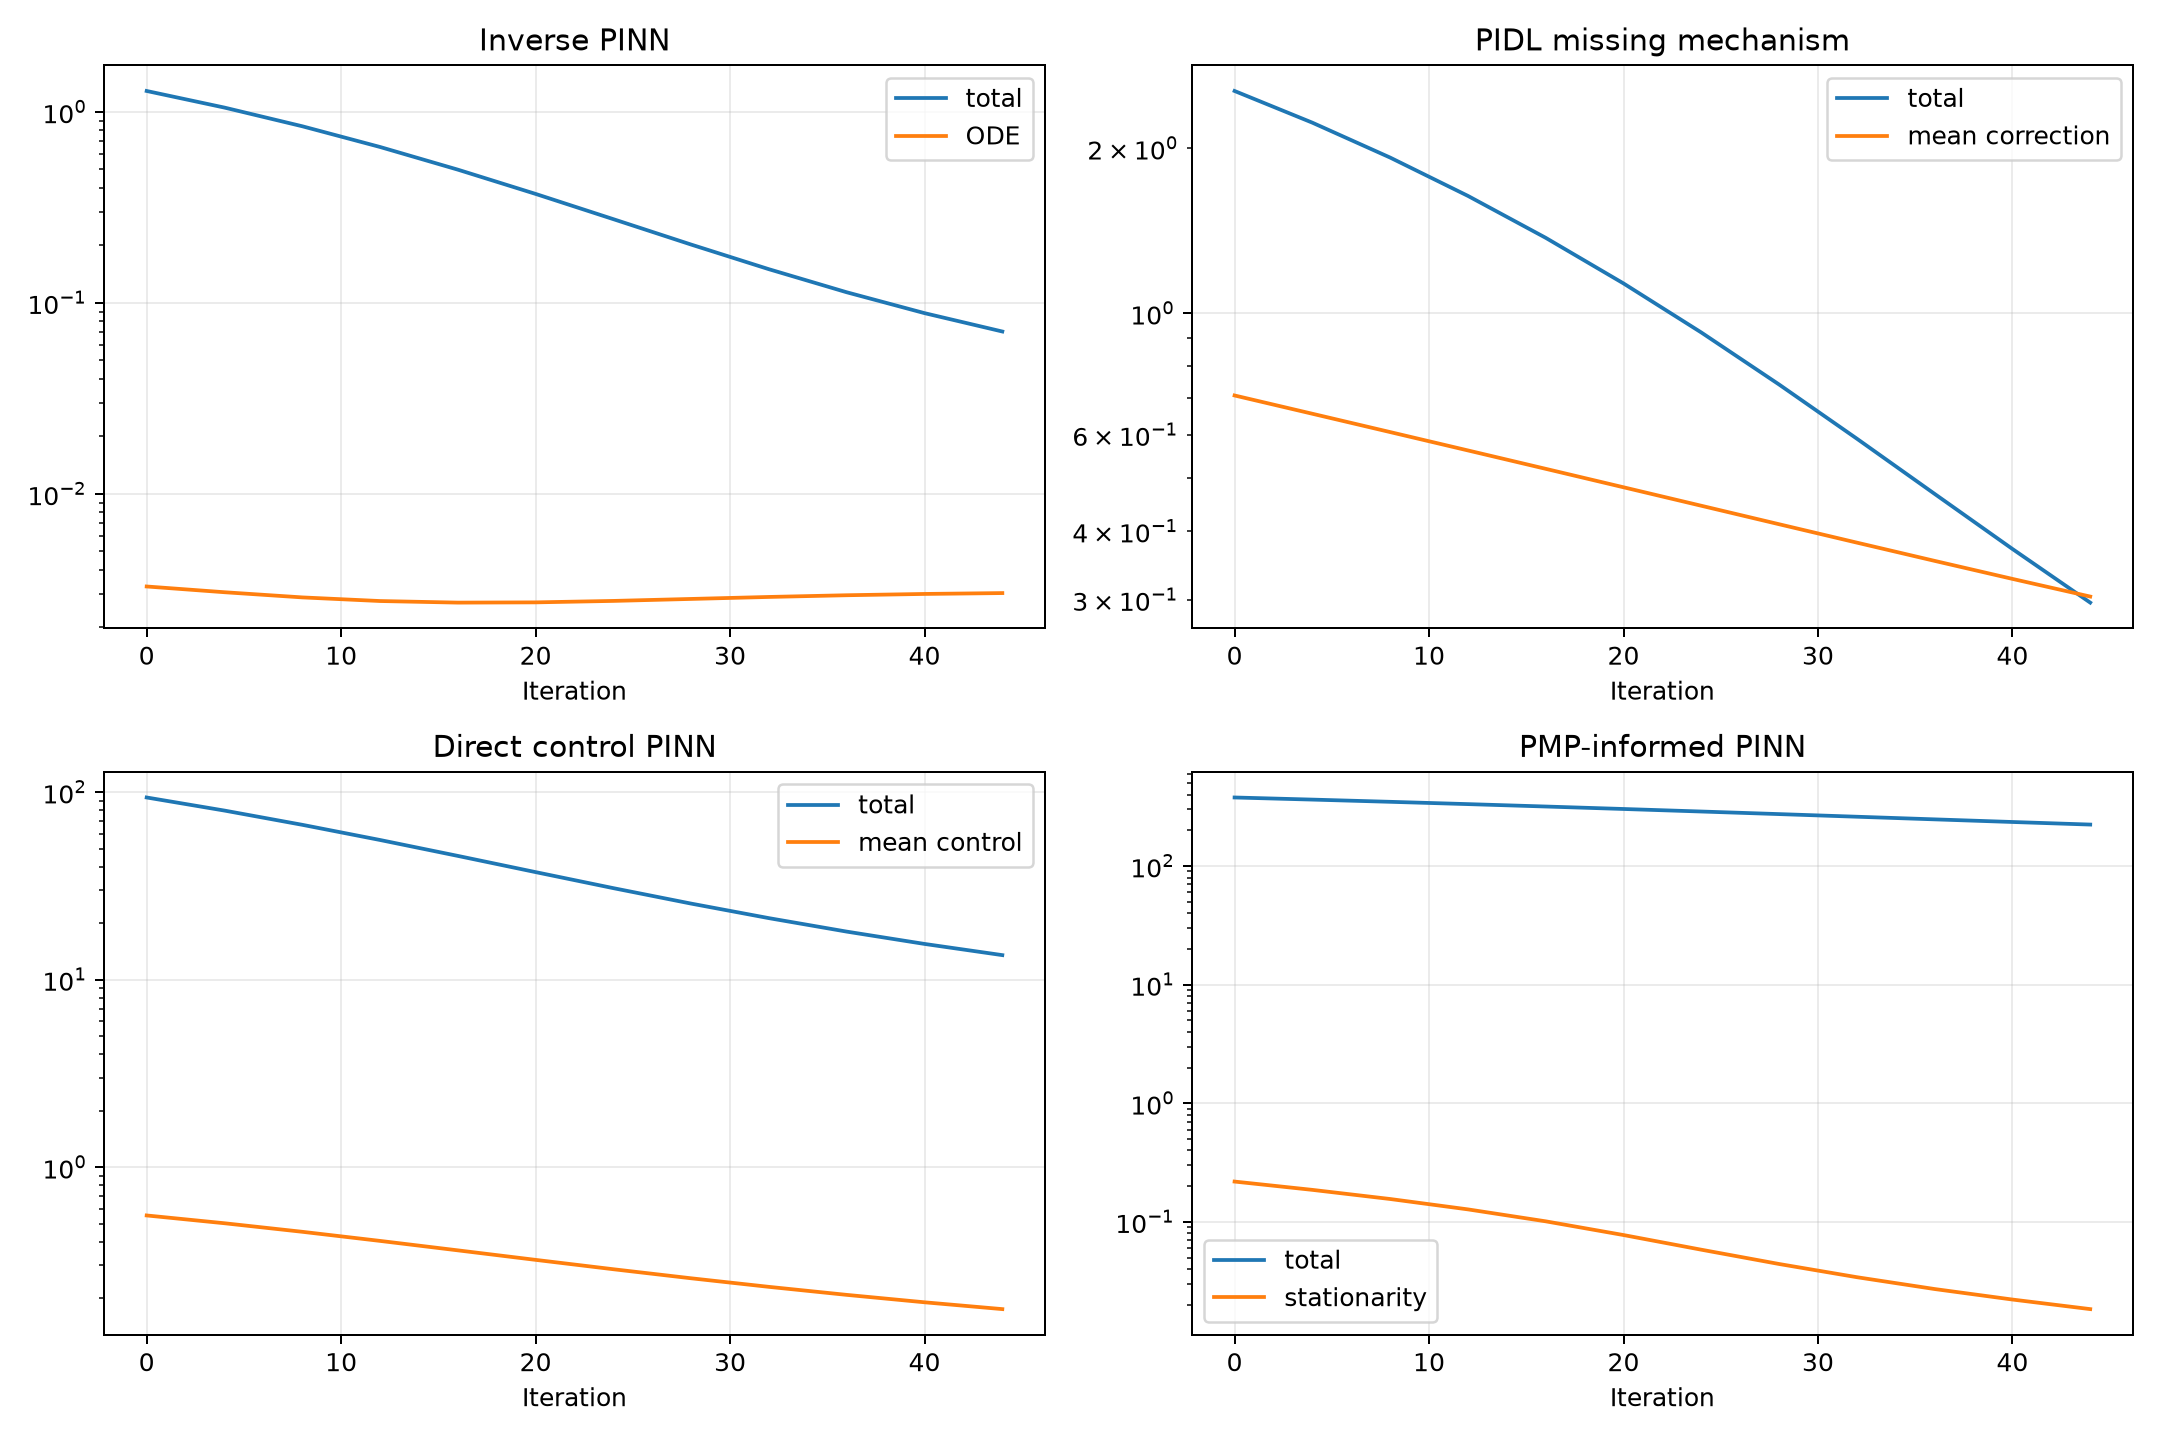
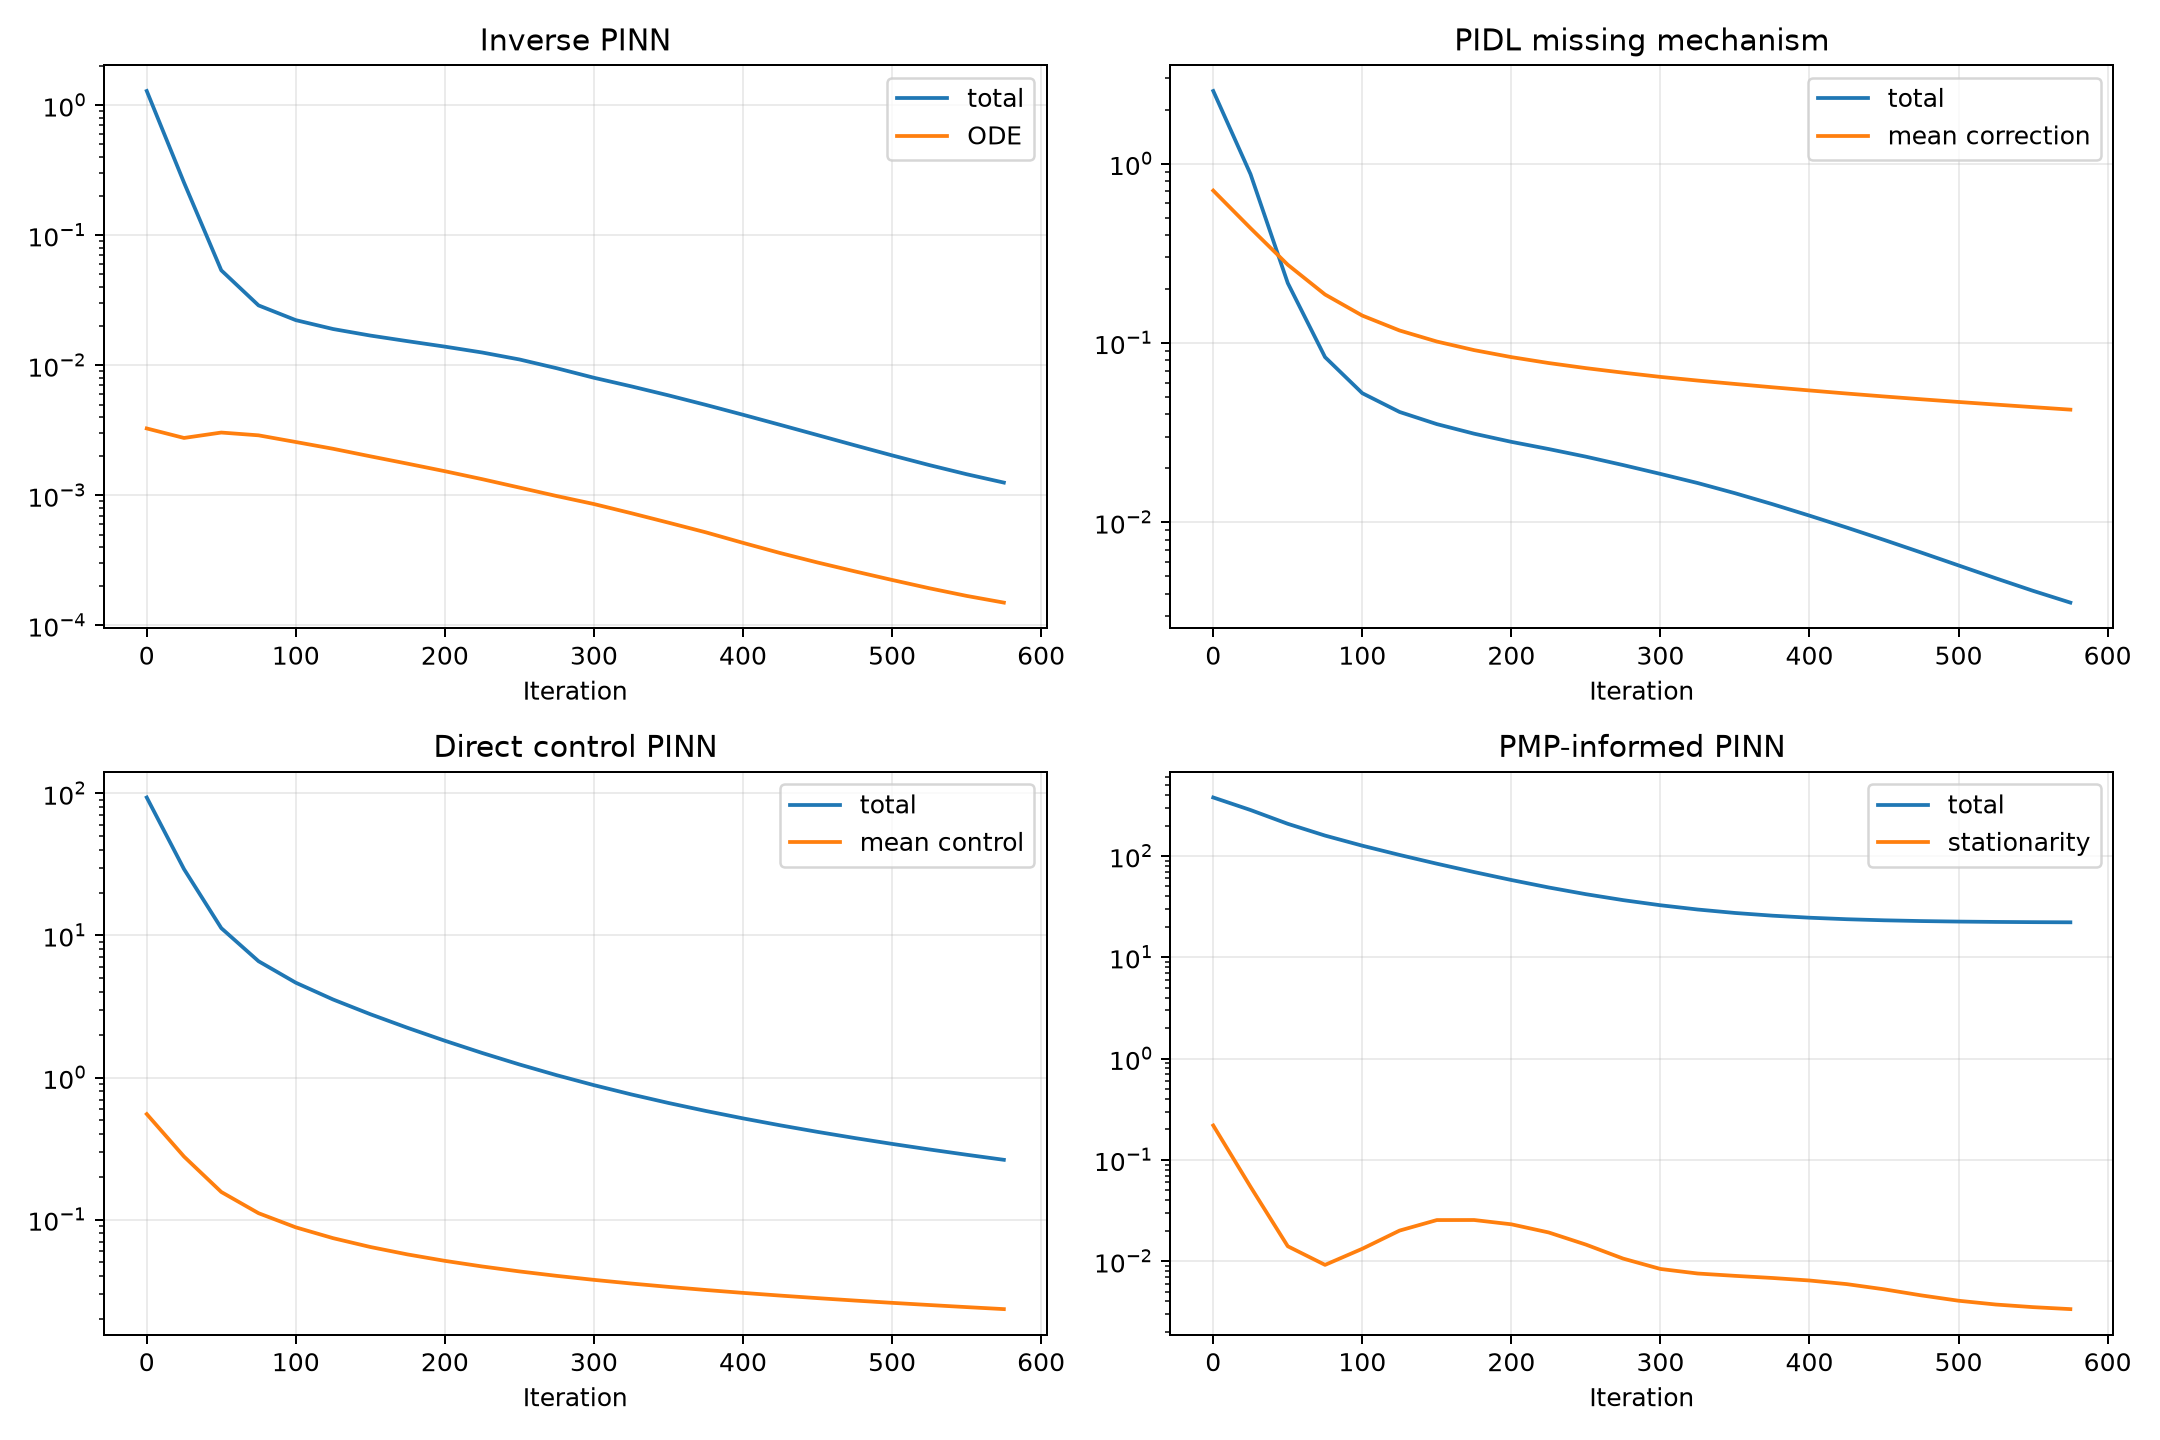
Improve Note 2 training convergence diagnostics

diff --git a/scripts/run_training_iterations.py b/scripts/run_training_iterations.py
@@ -24,7 +24,7 @@ def write_csv(path: Path, rows: list[dict]) -> None:
     if not rows:
         return
     with path.open("w", newline="") as f:
-        writer = csv.DictWriter(f, fieldnames=list(rows[0].keys()))
+        writer = csv.DictWriter(f, fieldnames=list(rows[0].keys()), lineterminator="\n")
         writer.writeheader()
         writer.writerows(rows)
 
@@ -41,7 +41,7 @@ def inverse_args(iters: int) -> SimpleNamespace:
         lr=1e-3,
         w_ic=10.0,
         w_ode=1.0,
-        log_every=max(1, iters // 12),
+        log_every=max(1, iters // 24),
         seed=21,
         return_history=True,
     )
@@ -58,7 +58,7 @@ def pidl_args(iters: int) -> SimpleNamespace:
         w_ic=10.0,
         w_res=1.0,
         w_corr=1e-3,
-        log_every=max(1, iters // 12),
+        log_every=max(1, iters // 24),
         seed=22,
         return_history=True,
     )
@@ -80,7 +80,7 @@ def control_args(iters: int) -> SimpleNamespace:
         AT=10.0,
         w_res=10.0,
         w_ic=10.0,
-        log_every=max(1, iters // 12),
+        log_every=max(1, iters // 24),
         seed=23,
         return_history=True,
     )
@@ -104,7 +104,7 @@ def pmp_args(iters: int) -> SimpleNamespace:
         w_costate=1.0,
         w_stat=1.0,
         w_bc=10.0,
-        log_every=max(1, iters // 12),
+        log_every=max(1, iters // 24),
         seed=24,
         return_history=True,
     )
@@ -141,9 +141,34 @@ def plot_training_diagnostics(output_path: Path, histories: dict[str, list[dict]
     plt.close(fig)
 
 
+def reduction(start: float, end: float) -> float:
+    return end / max(abs(start), 1e-12)
+
+
+def write_summary(path: Path, histories: dict[str, list[dict]]) -> None:
+    inv = histories["inverse"]
+    pidl = histories["pidl"]
+    control = histories["control"]
+    pmp = histories["pmp"]
+    text = f"""# Training Summary
+
+These diagnostics use longer laptop-friendly runs than the smoke tests.  They are intended to show whether each loss is moving toward a stable low-error regime.
+
+| Diagnostic | Start | End | End/start |
+|---|---:|---:|---:|
+| Inverse PINN total loss | {inv[0]["loss"]:.3e} | {inv[-1]["loss"]:.3e} | {reduction(inv[0]["loss"], inv[-1]["loss"]):.3e} |
+| PIDL total loss | {pidl[0]["loss"]:.3e} | {pidl[-1]["loss"]:.3e} | {reduction(pidl[0]["loss"], pidl[-1]["loss"]):.3e} |
+| Direct control PINN total loss | {control[0]["loss"]:.3e} | {control[-1]["loss"]:.3e} | {reduction(control[0]["loss"], control[-1]["loss"]):.3e} |
+| PMP-informed stationarity loss | {pmp[0]["stationarity_loss"]:.3e} | {pmp[-1]["stationarity_loss"]:.3e} | {reduction(pmp[0]["stationarity_loss"], pmp[-1]["stationarity_loss"]):.3e} |
+
+The PMP-informed total loss can decrease more slowly because the costate boundary term and Hamiltonian residuals compete early in training.  In this teaching run, the stationarity residual is the most important quick sanity signal.
+"""
+    path.write_text(text)
+
+
 def main() -> None:
-    parser = argparse.ArgumentParser(description="Run short training-iteration experiments for Note 2.")
-    parser.add_argument("--iters", type=int, default=72, help="Small iteration count for each PINN/PIDL diagnostic.")
+    parser = argparse.ArgumentParser(description="Run training-iteration experiments for Note 2.")
+    parser.add_argument("--iters", type=int, default=600, help="Iteration count for each PINN/PIDL diagnostic.")
     args = parser.parse_args()
 
     exp_dir = ROOT / "experiments"
@@ -164,6 +189,7 @@ def main() -> None:
     write_csv(exp_dir / "pidl_training_history.csv", pidl_history)
     write_csv(exp_dir / "control_pinn_training_history.csv", control_history)
     write_csv(exp_dir / "pmp_informed_pinn_training_history.csv", pmp_history)
+    write_summary(exp_dir / "training_summary.md", histories)
     plot_training_diagnostics(fig_dir / "training_iteration_diagnostics.png", histories)
 
     print(f"Wrote experiment CSV files to {exp_dir}")

diff --git a/docs/README.md b/docs/README.md
@@ -1,0 +1,24 @@
+# Note 2 Reading Path
+
+Start with `note2_pinn_pidl_cyber_control.pdf`.  It explains how PINN/PIDL methods are used for cyber propagation, sparse-data learning, and neural optimal control.
+
+Recommended order:
+
+1. Read the PINN motivation and notation sections first.
+2. Review the cyber propagation models before the inverse-learning examples.
+3. Read the inverse PINN section to understand sparse observations and parameter learning.
+4. Read the PIDL section to see how known mechanisms and learned corrections are combined.
+5. Read the direct-control PINN before the PMP-informed PINN.
+6. Use `implementation_companion.pdf` when mapping losses and residuals to code.
+7. Use `code_run_guide.pdf` for run commands and troubleshooting.
+
+Source files are in `latex/`.  The source is included for inspection and adaptation; the checked-in PDF is the version intended for reading.
+
+The runnable code mirrors this lecture order:
+
+| Lecture idea | Code |
+|---|---|
+| Sparse-data inverse PINN | `src/inverse_pinn_sir_malware.py` |
+| PIDL with known dynamics plus missing mechanism | `src/pidl_unknown_mechanism.py` |
+| Direct neural-control PINN | `src/control_pinn_malware.py` |
+| PMP-informed state/costate/control PINN | `src/pmp_informed_pinn_malware.py` |

diff --git a/README.md b/README.md
@@ -9,6 +9,7 @@ The scripts are compact by design: each file is a readable starting point for on
 | Path | Purpose |
 |---|---|
 | `docs/note2_pinn_pidl_cyber_control.pdf` | Main lecture note for PINN/PIDL cyber-control methods. |
+| `docs/README.md` | Reading path and lecture-structure guide. |
 | `docs/implementation_companion.pdf` | Companion explanation for implementation choices. |
 | `docs/code_run_guide.pdf` | General run guide from the original bundle. |
 | `src/inverse_pinn_sir_malware.py` | Inverse PINN that learns malware propagation parameters from sparse `I(t)` data. |
@@ -16,7 +17,7 @@ The scripts are compact by design: each file is a readable starting point for on
 | `src/control_pinn_malware.py` | Direct neural-control PINN for malware mitigation. |
 | `src/pmp_informed_pinn_malware.py` | PMP-informed PINN using state, costate, and stationarity residuals. |
 | `scripts/generate_figures.py` | Generates explanatory figures in `figures/`. |
-| `scripts/run_training_iterations.py` | Runs short PINN/PIDL diagnostics and writes CSV histories in `experiments/`. |
+| `scripts/run_training_iterations.py` | Runs longer PINN/PIDL teaching diagnostics and writes CSV histories in `experiments/`. |
 | `scripts/run_smoke_tests.sh` | Runs all fast checks for this repo. |
 | `.github/workflows/smoke-tests.yml` | GitHub Actions workflow for dependency install, smoke tests, and figure generation. |
 | `experiments/` | Small training-iteration CSV outputs and an explanation of each metric. |
@@ -43,7 +44,7 @@ Generate the figures used in this README:
 python scripts/generate_figures.py
 ```
 
-Run short training-iteration diagnostics:
+Run longer training-iteration diagnostics:
 
 ```bash
 python scripts/run_training_iterations.py
@@ -74,7 +75,7 @@ This repo keeps four related learning tasks separate:
 
 ## Training Diagnostics
 
-`scripts/run_training_iterations.py` writes four small experiment tables:
+`scripts/run_training_iterations.py` writes four experiment tables and a summary:
 
 | CSV | What to inspect |
 |---|---|
@@ -82,6 +83,9 @@ This repo keeps four related learning tasks separate:
 | `experiments/pidl_training_history.csv` | Whether the learned missing mechanism is used without dominating the known dynamics. |
 | `experiments/control_pinn_training_history.csv` | Objective, dynamics residual, and mean control across training. |
 | `experiments/pmp_informed_pinn_training_history.csv` | State, costate, stationarity, and boundary residuals for the PMP system. |
+| `experiments/training_summary.md` | First-versus-last loss reductions and interpretation. |
+
+The default run is intentionally longer than smoke mode.  The inverse PINN, PIDL, and direct-control PINN losses should move toward a low-error regime.  For the PMP-informed PINN, the stationarity residual is the cleanest quick sanity signal because the costate boundary term can dominate the total loss early in training.
 
 The combined plot is:
 
@@ -91,6 +95,6 @@ The combined plot is:
 
 The repo includes smoke tests for every executable script and unit tests for the core tensor constraints.  It also has a GitHub Actions workflow that installs dependencies, runs smoke tests, and regenerates figures on push or pull request.
 
-This consolidated version merges the duplicate Note 2 materials into one final repo: it keeps the PDFs/source materials, generated figures, tests, CI workflow, and short training diagnostics in the same place.  The PMP-informed script computes `H_x` and `H_u` on the live autograd graph so stationarity residuals train the neural control model as intended.
+This consolidated version keeps the Note 2 PDFs, source materials, generated figures, tests, CI workflow, and longer teaching diagnostics in one final repo.  The PMP-informed script computes `H_x` and `H_u` on the live autograd graph so stationarity residuals train the neural control model as intended.
 
 These examples are teaching code, not calibrated cyber-risk models.  For publication-grade experiments, add noisy-data studies, identifiability checks, multiple seeds, held-out trajectories, and uncertainty estimates.

diff --git a/experiments/training_summary.md b/experiments/training_summary.md
@@ -1,0 +1,12 @@
+# Training Summary
+
+These diagnostics use longer laptop-friendly runs than the smoke tests.  They are intended to show whether each loss is moving toward a stable low-error regime.
+
+| Diagnostic | Start | End | End/start |
+|---|---:|---:|---:|
+| Inverse PINN total loss | 1.286e+00 | 1.255e-03 | 9.756e-04 |
+| PIDL total loss | 2.543e+00 | 3.564e-03 | 1.401e-03 |
+| Direct control PINN total loss | 9.360e+01 | 2.636e-01 | 2.816e-03 |
+| PMP-informed stationarity loss | 2.187e-01 | 3.364e-03 | 1.539e-02 |
+
+The PMP-informed total loss can decrease more slowly because the costate boundary term and Hamiltonian residuals compete early in training.  In this teaching run, the stationarity residual is the most important quick sanity signal.

diff --git a/experiments/README.md b/experiments/README.md
@@ -6,7 +6,7 @@ Run:
 python scripts/run_training_iterations.py
 ```
 
-The script performs short, CPU-friendly PINN/PIDL runs and writes:
+The script performs longer, CPU-friendly PINN/PIDL teaching runs and writes:
 
 | File | Meaning |
 |---|---|
@@ -14,5 +14,8 @@ The script performs short, CPU-friendly PINN/PIDL runs and writes:
 | `pidl_training_history.csv` | PIDL total, data, residual, correction regularizer, and mean learned correction. |
 | `control_pinn_training_history.csv` | Direct control PINN objective, residual loss, initial-condition loss, and mean control. |
 | `pmp_informed_pinn_training_history.csv` | PMP-informed total, state, costate, stationarity, and boundary losses. |
+| `training_summary.md` | First-versus-last loss reductions and interpretation. |
 
 The companion plot is saved as `figures/training_iteration_diagnostics.png`.
+
+The default configuration is longer than smoke mode and is intended to show losses approaching a stable low-error regime. For the PMP-informed example, inspect stationarity and state residuals alongside the total loss.